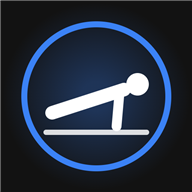
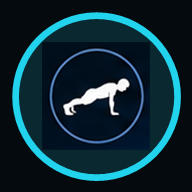
Redesign UI with neon HUD theme; more realistic fire burst

diff --git a/index.html b/index.html
@@ -3,23 +3,23 @@
 <head>
 <meta charset="UTF-8">
 <meta name="viewport" content="width=device-width, initial-scale=1.0, user-scalable=no">
-<meta name="theme-color" content="#121212">
+<meta name="theme-color" content="#050A0E">
 <link rel="manifest" href="manifest.json">
 <link rel="apple-touch-icon" href="images/app-icon-192.png">
 <title>Home Workout Counter</title>
 <style>
   :root {
-    --bg: #121212;
-    --card: #1E1E1E;
-    --card-active: #252525;
-    --accent: #3B82F6;
-    --accent-strong: #2563EB;
-    --accent-soft: rgba(59, 130, 246, .16);
-    --accent-glow: rgba(59, 130, 246, .35);
-    --text: #FFFFFF;
-    --muted: #9CA3AF;
-    --border: #2C2C2C;
-    --danger: #EF4444;
+    --bg: #050A0E;
+    --card: rgba(10, 24, 32, .72);
+    --card-active: rgba(16, 40, 52, .92);
+    --accent: #22D3EE;
+    --accent-strong: #06B6D4;
+    --accent-soft: rgba(34, 211, 238, .14);
+    --accent-glow: rgba(34, 211, 238, .45);
+    --text: #E6FAFF;
+    --muted: #6F91A1;
+    --border: rgba(34, 211, 238, .32);
+    --danger: #FF3B6B;
   }
   * { margin: 0; padding: 0; box-sizing: border-box; }
   html, body {
@@ -176,21 +176,46 @@
     40% { transform: translateX(2px); } 60% { transform: translateX(-1.5px); } 80% { transform: translateX(1.5px); }
   }
   .fire { position: absolute; inset: 0; pointer-events: none; overflow: visible; border-radius: inherit; z-index: 3; }
+  /* hot base glow sitting on the button */
+  .fire::after {
+    content: ""; position: absolute; left: 0; right: 0; bottom: -4px; height: 26px;
+    background: radial-gradient(ellipse at 50% 100%, rgba(255, 190, 70, .85), rgba(255, 110, 20, .45) 45%, transparent 72%);
+    filter: blur(6px); mix-blend-mode: screen; animation: baseGlow .6s ease-out forwards;
+  }
+  @keyframes baseGlow { 0% { opacity: 0; } 20% { opacity: 1; } 100% { opacity: 0; } }
   .fire .flame {
-    position: absolute; bottom: 2px; width: 22px; height: 22px; transform: translateX(-50%);
-    background: radial-gradient(circle at 50% 38%, #fffde7 0%, #ffe082 28%, #ff9800 54%, rgba(244, 67, 54, .5) 74%, transparent 78%);
-    border-radius: 50%; filter: blur(2px); mix-blend-mode: screen;
-    animation: flameUp var(--d, .55s) ease-out var(--delay, 0s) forwards;
+    position: absolute; bottom: 0; width: 26px; height: 40px; transform: translateX(-50%);
+    border-radius: 50% 50% 46% 46% / 62% 62% 38% 38%;
+    background: radial-gradient(ellipse at 50% 80%,
+      #ffffff 0%, #fff3c4 12%, #ffd166 30%, #ff9b21 52%, #f2490c 72%, rgba(150, 20, 0, 0) 88%);
+    filter: blur(3px) saturate(1.25); mix-blend-mode: screen;
+    animation: flameUp var(--d, .55s) cubic-bezier(.25, .6, .3, 1) var(--delay, 0s) forwards,
+               flicker .11s steps(2, end) infinite;
   }
   @keyframes flameUp {
-    0% { opacity: 0; transform: translateX(-50%) translateY(8px) scale(.5); }
-    18% { opacity: 1; }
-    70% { opacity: 1; }
-    100% { opacity: 0; transform: translateX(-50%) translateY(-54px) scale(1.15); }
+    0%   { opacity: 0; transform: translateX(-50%) translateY(10px) scaleX(.5) scaleY(.35); }
+    16%  { opacity: 1; }
+    60%  { opacity: .95; transform: translateX(-50%) translateY(-26px) scaleX(.82) scaleY(1.25); }
+    100% { opacity: 0; transform: translateX(-50%) translateY(-66px) scaleX(.42) scaleY(1.55); }
+  }
+  @keyframes flicker {
+    from { filter: blur(3px) saturate(1.25) brightness(1); }
+    to   { filter: blur(3.7px) saturate(1.35) brightness(1.28); }
+  }
+  .fire .ember {
+    position: absolute; bottom: 8px; width: 4px; height: 4px; border-radius: 50%;
+    background: #ffcf7a; box-shadow: 0 0 9px #ff8a00; mix-blend-mode: screen;
+    animation: emberUp var(--d, .6s) ease-out var(--delay, 0s) forwards;
+  }
+  @keyframes emberUp {
+    0%   { opacity: 0; transform: translate(-50%, 0) scale(1); }
+    25%  { opacity: 1; }
+    100% { opacity: 0; transform: translate(calc(-50% + var(--dx, 0px)), -82px) scale(.25); }
   }
   @media (prefers-reduced-motion: reduce) {
     #startBtn.igniting { animation: none; }
-    .fire .flame { animation-duration: .3s; }
+    .fire .flame { animation: flameUp .3s ease-out var(--delay, 0s) forwards; }
+    .fire .ember { display: none; }
   }
 
   /* ---- Update toast ---- */
@@ -236,7 +261,7 @@
     transition: background .15s, color .15s, border-color .15s;
   }
   #stateBadge.down {
-    background: var(--accent-soft); border-color: var(--accent); color: #93C5FD;
+    background: var(--accent-soft); border-color: var(--accent); color: #7DE9F7;
   }
   #stateBadge.up {
     background: var(--accent); border-color: var(--accent); color: #fff;
@@ -313,7 +338,7 @@
   .coach-group { width: 100%; max-width: 440px; }
   .coach-group .chips { justify-content: center; }
   #coachResult { width: 100%; max-width: 440px; display: flex; flex-direction: column; gap: 12px; }
-  #coachSaved { color: #93C5FD; font-size: .85rem; text-align: center; min-height: 1.1em; }
+  #coachSaved { color: #7DE9F7; font-size: .85rem; text-align: center; min-height: 1.1em; }
   .plan-head {
     font-size: 1.15rem; font-weight: 800; text-align: center;
     padding: 10px; background: var(--accent-soft); border: 1.5px solid var(--accent);
@@ -324,7 +349,7 @@
   .plan-tips { margin: 0; padding-left: 20px; line-height: 1.6; font-size: .88rem; color: var(--muted); }
   .plan-tips li { margin-bottom: 5px; }
   .plan-schedule { font-size: .9rem; line-height: 1.5; color: var(--text); }
-  .plan-schedule .hl { color: #93C5FD; font-weight: 700; }
+  .plan-schedule .hl { color: #7DE9F7; font-weight: 700; }
   #circuitList { display: flex; flex-direction: column; gap: 10px; width: 100%; max-width: 440px; }
   .circuit-card {
     background: var(--card); border: 1.5px solid var(--border); border-radius: 14px;
@@ -485,6 +510,79 @@
     border-radius: 50%; animation: spin 0.8s linear infinite;
   }
   @keyframes spin { to { transform: rotate(360deg); } }
+
+  /* ================= NEON HUD THEME ================= */
+  body {
+    background:
+      linear-gradient(rgba(34, 211, 238, .035) 1px, transparent 1px) 0 0 / 100% 42px,
+      var(--bg);
+  }
+  #setup, #guide, #sound, #historyScreen, #circuitsScreen, #circuitBuilder, #coachScreen, #done {
+    background:
+      radial-gradient(70% 45% at 50% 0%, rgba(34, 211, 238, .12), transparent 72%),
+      linear-gradient(rgba(34, 211, 238, .035) 1px, transparent 1px) 0 0 / 100% 42px,
+      var(--bg);
+  }
+  h1, #setup h1, .plan-head, .splash-title {
+    text-transform: uppercase; letter-spacing: 2px;
+    text-shadow: 0 0 18px var(--accent-glow);
+  }
+  .tagline, .sub { text-transform: uppercase; letter-spacing: 1.4px; font-size: .74rem !important; }
+
+  /* Outlined neon buttons */
+  .secondary-btn {
+    background: rgba(8, 20, 28, .6); border: 1.5px solid var(--border); color: var(--accent);
+    text-transform: uppercase; letter-spacing: 1.4px; font-size: .82rem; border-radius: 10px;
+    box-shadow: inset 0 0 18px rgba(34, 211, 238, .08);
+  }
+  .secondary-btn:active {
+    border-color: var(--accent); background: var(--card-active);
+    box-shadow: 0 0 22px var(--accent-glow), inset 0 0 22px rgba(34, 211, 238, .18);
+  }
+  .primary-btn {
+    background: linear-gradient(180deg, #2FE3FB, var(--accent-strong));
+    color: #02141B; text-transform: uppercase; letter-spacing: 2px; border-radius: 10px;
+    box-shadow: 0 0 26px var(--accent-glow), inset 0 0 20px rgba(255, 255, 255, .25);
+    text-shadow: 0 0 10px rgba(255, 255, 255, .5);
+  }
+
+  /* Panels */
+  .exercise-card, .stat-tile, #histChartWrap, .circuit-card, .plan-block, .hist-item,
+  .step-row, .day-row, .goal-picker, .segmented, #builderName {
+    background: rgba(8, 20, 28, .6);
+    border-color: var(--border);
+    box-shadow: inset 0 0 22px rgba(34, 211, 238, .07);
+  }
+  .exercise-card { border-radius: 12px; text-transform: uppercase; letter-spacing: 1.2px; font-size: .8rem; }
+  .exercise-card.selected {
+    border-color: var(--accent); background: var(--card-active);
+    box-shadow: 0 0 0 1px var(--accent), 0 0 28px var(--accent-glow), inset 0 0 26px rgba(34, 211, 238, .16);
+  }
+  /* tint the exercise pictograms to match the neon palette */
+  .exercise-card .icon { border: 1.5px solid var(--border); background: rgba(34, 211, 238, .10); }
+  .exercise-card .icon img, .guide-svg img {
+    filter: grayscale(1) brightness(1.35) sepia(1) hue-rotate(146deg) saturate(5);
+  }
+  .exercise-card.selected .icon { border-color: var(--accent); box-shadow: 0 0 18px var(--accent-glow); }
+
+  .section-label { color: var(--accent); opacity: .75; }
+  .chip { background: rgba(8, 20, 28, .6); border-color: var(--border); color: var(--accent); text-transform: uppercase; letter-spacing: 1px; font-size: .76rem; }
+  .chip.active { background: var(--accent); color: #02141B; box-shadow: 0 0 20px var(--accent-glow); }
+  .segmented button.active { background: var(--accent); color: #02141B; box-shadow: 0 0 20px var(--accent-glow); }
+  .stat-tile .val, #goalValue, #repDisplay, #restTimer, .big, #finalCount {
+    color: var(--accent); text-shadow: 0 0 22px var(--accent-glow);
+  }
+  #stateBadge { background: rgba(8, 20, 28, .75); border-color: var(--border); color: var(--accent); text-transform: uppercase; letter-spacing: 1.5px; }
+  #stateBadge.up { background: var(--accent); color: #02141B; }
+  #exerciseLabel { background: rgba(8, 20, 28, .75); border-color: var(--border); color: var(--accent); text-transform: uppercase; letter-spacing: 1.2px; }
+  #stopBtn {
+    background: rgba(20, 6, 14, .8); border: 1.5px solid var(--danger); color: var(--danger);
+    text-transform: uppercase; letter-spacing: 2px; border-radius: 10px;
+    box-shadow: 0 0 22px rgba(255, 59, 107, .45), inset 0 0 18px rgba(255, 59, 107, .12);
+  }
+  .splash-logo { border: 1.5px solid var(--accent); box-shadow: 0 0 44px var(--accent-glow); }
+  .splash-logo img { filter: grayscale(1) brightness(1.35) sepia(1) hue-rotate(146deg) saturate(5); }
+  #updateToast { color: #02141B; }
 </style>
 </head>
 <body>
@@ -1098,7 +1196,7 @@ const SKELETON_POINTS = [...new Set(SKELETON_PAIRS.flat())];
 
 function drawSkeleton(lm) {
   ctx.clearRect(0, 0, overlay.width, overlay.height);
-  ctx.strokeStyle = phase === "down" ? "#93C5FD" : "#3B82F6";
+  ctx.strokeStyle = phase === "down" ? "#7DE9F7" : "#22D3EE";
   ctx.lineWidth = 4;
   for (const [i, j] of SKELETON_PAIRS) {
     if (vis(lm, i, j) < 0.5) continue;
@@ -1129,7 +1227,7 @@ function onRep() {
       // Last exercise's goal reached — celebrate, keep counting until Stop
       goalFanfare();
       speak("Circuit complete! Great work. Keep going or press stop.");
-      repDisplay.style.color = "#3B82F6";
+      repDisplay.style.color = "#22D3EE";
       repDisplay.style.textShadow = "0 0 24px rgba(59, 130, 246, .5)";
     } else {
       repBeep();
@@ -1146,7 +1244,7 @@ function onRep() {
     // Final set's goal reached — celebrate but keep counting until Stop
     goalFanfare();
     speak(totalSets > 1 ? "All sets done! Keep going!" : "Goal reached! " + goal + " done. Keep going!");
-    repDisplay.style.color = "#3B82F6";
+    repDisplay.style.color = "#22D3EE";
     repDisplay.style.textShadow = "0 0 24px rgba(59, 130, 246, .5)";
   } else {
     repBeep();
@@ -1434,8 +1532,18 @@ function igniteButton(btn, done) {
     f.style.left = (4 + (i / (n - 1)) * 92) + "%";
     f.style.setProperty("--d", (440 + Math.random() * 260) + "ms");
     f.style.setProperty("--delay", (Math.random() * 130) + "ms");
-    f.style.width = f.style.height = (16 + Math.random() * 12) + "px";
+    f.style.width = (20 + Math.random() * 14) + "px";
+    f.style.height = (32 + Math.random() * 20) + "px";
     fire.appendChild(f);
+  }
+  for (let i = 0; i < 10; i++) {
+    const e2 = document.createElement("span");
+    e2.className = "ember";
+    e2.style.left = (8 + Math.random() * 84) + "%";
+    e2.style.setProperty("--d", (520 + Math.random() * 260) + "ms");
+    e2.style.setProperty("--delay", (Math.random() * 200) + "ms");
+    e2.style.setProperty("--dx", (Math.random() * 26 - 13) + "px");
+    fire.appendChild(e2);
   }
   btn.appendChild(fire);
   setTimeout(() => { fire.remove(); btn.classList.remove("igniting"); done(); }, 550);
@@ -1582,7 +1690,7 @@ function renderHistChart(data) {
   const pts = data.slice(-20);
   if (!pts.length) {
     svg.innerHTML = '<text x="' + (W / 2) + '" y="' + (H / 2) +
-      '" text-anchor="middle" font-size="13" fill="#9CA3AF">No data yet</text>';
+      '" text-anchor="middle" font-size="13" fill="#6F91A1">No data yet</text>';
     return;
   }
   const niceMax = Math.max(10, Math.ceil(Math.max(...pts.map(p => p.reps)) / 10) * 10);
@@ -1591,18 +1699,18 @@ function renderHistChart(data) {
   let s = "";
   for (const v of [0, niceMax / 2, niceMax]) {
     s += '<line x1="' + padL + '" x2="' + (W - padR) + '" y1="' + y(v) + '" y2="' + y(v) +
-      '" stroke="#2C2C2C" stroke-width="1"/>' +
-      '<text x="' + (padL - 7) + '" y="' + (y(v) + 3.5) + '" text-anchor="end" font-size="10" fill="#9CA3AF">' + v + '</text>';
+      '" stroke="#123240" stroke-width="1"/>' +
+      '<text x="' + (padL - 7) + '" y="' + (y(v) + 3.5) + '" text-anchor="end" font-size="10" fill="#6F91A1">' + v + '</text>';
   }
   const line = pts.map((p, i) => (i ? "L" : "M") + x(i).toFixed(1) + "," + y(p.reps).toFixed(1)).join(" ");
   if (pts.length > 1) {
     s += '<path d="' + line + " L" + x(pts.length - 1).toFixed(1) + "," + y(0) + " L" + x(0).toFixed(1) + "," + y(0) +
       ' Z" fill="rgba(59,130,246,.12)"/>';
-    s += '<path d="' + line + '" fill="none" stroke="#3B82F6" stroke-width="2" stroke-linejoin="round"/>';
+    s += '<path d="' + line + '" fill="none" stroke="#22D3EE" stroke-width="2" stroke-linejoin="round"/>';
   }
   pts.forEach((p, i) => {
     s += '<circle cx="' + x(i).toFixed(1) + '" cy="' + y(p.reps).toFixed(1) +
-      '" r="4" fill="#3B82F6" stroke="#1E1E1E" stroke-width="2"/>' +
+      '" r="4" fill="#22D3EE" stroke="#1E1E1E" stroke-width="2"/>' +
       '<circle class="hist-hit" data-i="' + i + '" cx="' + x(i).toFixed(1) + '" cy="' + y(p.reps).toFixed(1) +
       '" r="14" fill="transparent"/>';
   });
@@ -1610,9 +1718,9 @@ function renderHistChart(data) {
   s += '<text x="' + x(pts.length - 1).toFixed(1) + '" y="' + (y(last.reps) - 9) +
     '" text-anchor="' + (pts.length === 1 ? "middle" : "end") + '" font-size="11" font-weight="700" fill="#FFFFFF">' +
     last.reps + '</text>';
-  s += '<text x="' + padL + '" y="' + (H - 7) + '" text-anchor="start" font-size="10" fill="#9CA3AF">' + fmtDay(pts[0].t) + '</text>';
+  s += '<text x="' + padL + '" y="' + (H - 7) + '" text-anchor="start" font-size="10" fill="#6F91A1">' + fmtDay(pts[0].t) + '</text>';
   if (pts.length > 1) {
-    s += '<text x="' + (W - padR) + '" y="' + (H - 7) + '" text-anchor="end" font-size="10" fill="#9CA3AF">' + fmtDay(last.t) + '</text>';
+    s += '<text x="' + (W - padR) + '" y="' + (H - 7) + '" text-anchor="end" font-size="10" fill="#6F91A1">' + fmtDay(last.t) + '</text>';
   }
   svg.innerHTML = s;
 

diff --git a/sw.js b/sw.js
@@ -1,4 +1,4 @@
-const CACHE = 'workout-counter-v17';
+const CACHE = 'workout-counter-v18';
 const ASSETS = [
   './',
   './index.html',
